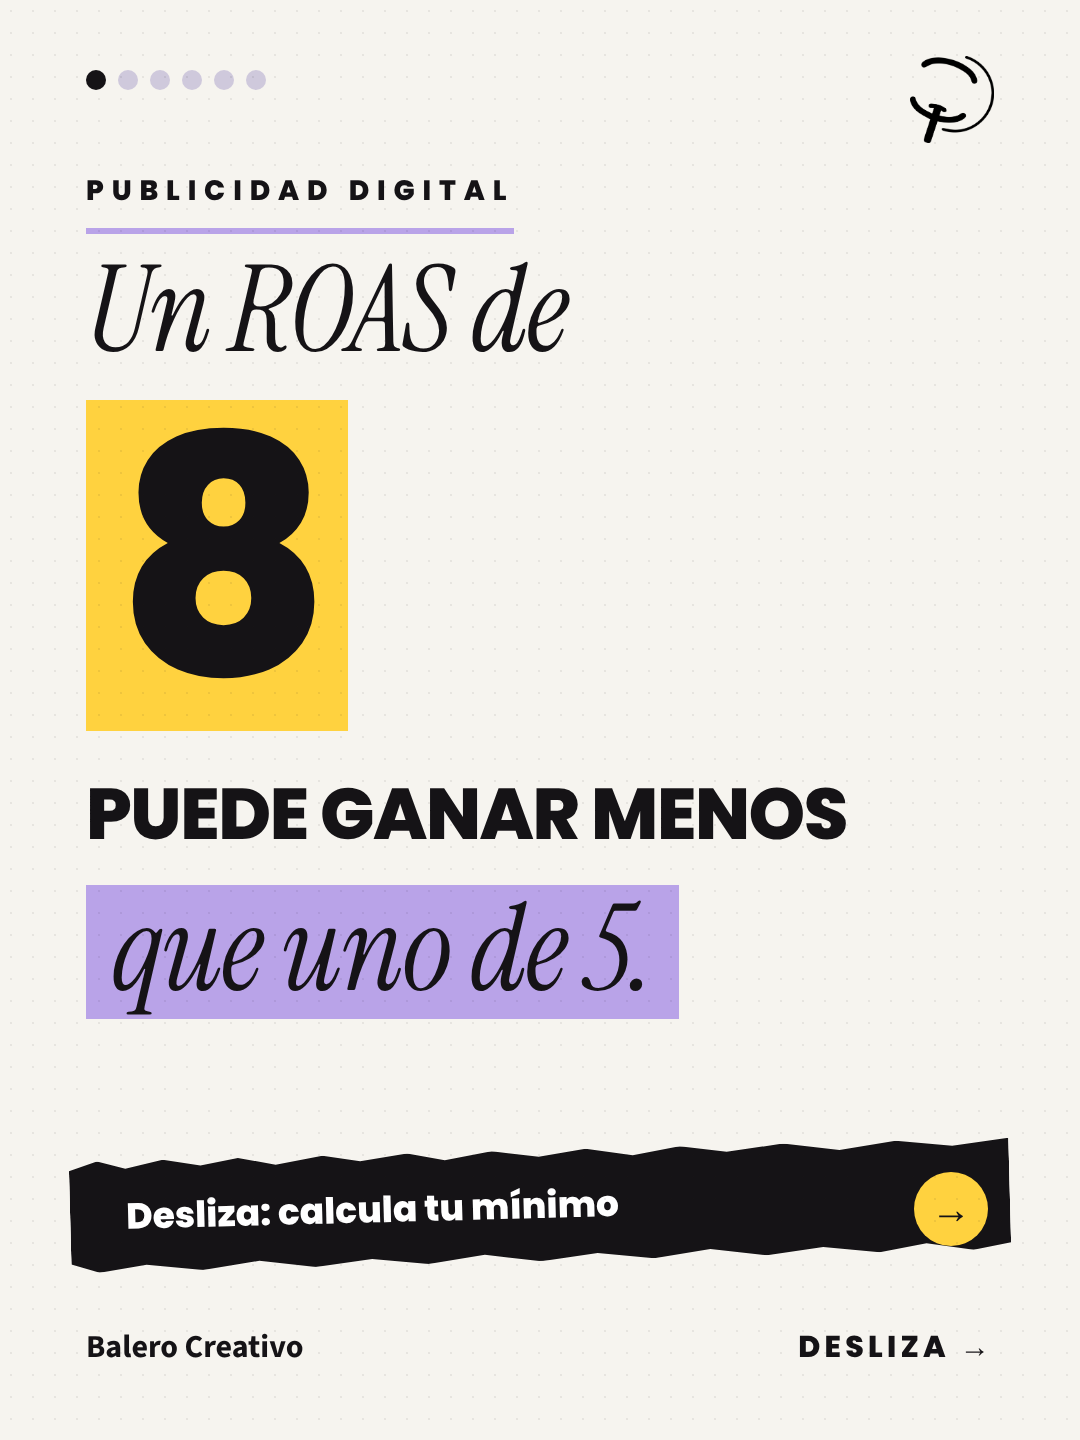
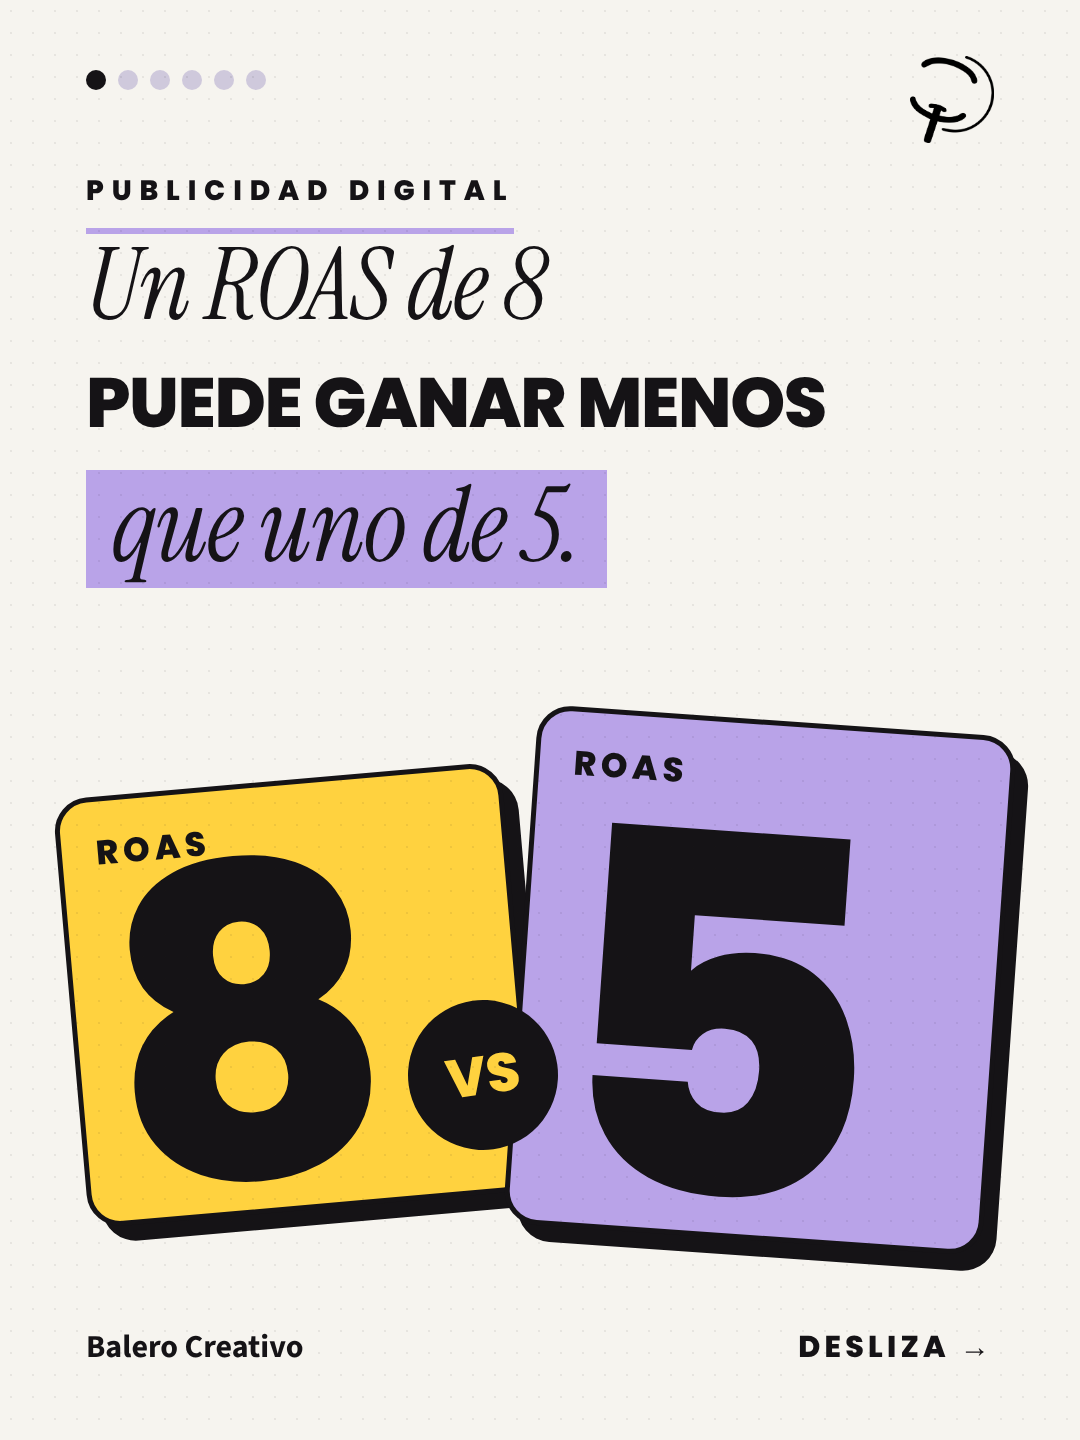
Portada ROAS: duelo visual 8 vs 5
Claude-Session: https://claude.ai/code/session_01Bq7ZC7FDz5LcdZBgNXTuBm

diff --git a/clientes/balero/diseno/2026-11/estilo-editorial/semana/roas.html b/clientes/balero/diseno/2026-11/estilo-editorial/semana/roas.html
@@ -60,4 +60,4 @@ body{background:#888}
 .meter{position:absolute;left:86px;right:86px;background:#fff;border:4px solid #151316;border-radius:26px;box-shadow:10px 12px 0 #151316;overflow:hidden}
 
 .bigy{position:absolute;left:86px;font:800 330px/.9 Poppins;background:#FFD23F;padding:10px 30px 24px;letter-spacing:-.04em}
-</style></head><body><div class="s" id="s1"><div class="dots"><i style="background:#151316"></i><i style="background:#cfc9dc"></i><i style="background:#cfc9dc"></i><i style="background:#cfc9dc"></i><i style="background:#cfc9dc"></i><i style="background:#cfc9dc"></i></div><img class="logo" src="/home/user/balero/.claude/skills/balero-imagenes/assets/logo-balero.png"><div class="kick" style="top:170px">Publicidad digital</div><div class="serif" style="position:absolute;left:86px;top:250px;font-size:120px;line-height:1">Un ROAS de</div><div class="bigy" style="top:400px">8</div><div class="big" style="top:775px;font-size:72px;line-height:1.08">PUEDE GANAR MENOS</div><div class="serif" style="position:absolute;left:86px;top:885px;font-size:120px;line-height:1"><span class="hl">que uno de 5.</span></div><div class="tape" style="top:1150px;font-family:Poppins;font-weight:800;font-size:36px">Desliza: calcula tu mínimo</div><div class="arrow" style="top:1150px;transform:translateY(22px)">→</div><div class="foot"><span>Balero Creativo</span></div><div style="position:absolute;right:86px;bottom:70px;font:800 30px Poppins;letter-spacing:.14em">DESLIZA →</div></div><div class="s" id="s2"><div class="dots"><i style="background:#cfc9dc"></i><i style="background:#151316"></i><i style="background:#cfc9dc"></i><i style="background:#cfc9dc"></i><i style="background:#cfc9dc"></i><i style="background:#cfc9dc"></i></div><img class="logo" src="/home/user/balero/.claude/skills/balero-imagenes/assets/logo-balero.png"><div class="chip">LA FÓRMULA</div><div class="t" style="top:290px;font-size:100px">Ventas entre<br><span class="serif" style="font-size:1.25em;text-transform:none;font-weight:400;background:#FFD23F;padding:0 18px">inversión.</span></div><div class="body" style="top:610px;width:880px">Eso es el ROAS: lo que vendes dividido entre lo que inviertes en anuncios.</div><div class="stat" style="left:86px;top:780px;width:250px;height:280px;background:#fff"><b style="font-size:58px">$2,000</b><span>ventas</span></div><div class="sc" style="left:350px;top:890px">÷</div><div class="stat" style="left:420px;top:780px;width:250px;height:280px;background:#fff"><b style="font-size:58px">$400</b><span>inversión</span></div><div class="sc" style="left:684px;top:890px">=</div><div class="stat" style="left:748px;top:780px;width:246px;height:280px;background:#B9A3E8"><b style="font-size:96px">5</b><span>ROAS</span></div><div class="serif" style="position:absolute;left:86px;top:1130px;font-size:62px;line-height:1">Por cada <span class="hl">$1</span> invertido,</div><div class="serif" style="position:absolute;left:86px;top:1205px;font-size:62px;line-height:1">$5 en ventas.</div><div class="foot"><span>Balero Creativo</span></div><div style="position:absolute;right:86px;bottom:70px;font:700 30px 'Source Sans Pro';color:#3d3a42;text-align:right;max-width:640px">Ejemplo ilustrativo</div></div><div class="s" id="s3"><div class="dots"><i style="background:#cfc9dc"></i><i style="background:#cfc9dc"></i><i style="background:#151316"></i><i style="background:#cfc9dc"></i><i style="background:#cfc9dc"></i><i style="background:#cfc9dc"></i></div><img class="logo" src="/home/user/balero/.claude/skills/balero-imagenes/assets/logo-balero.png"><div class="chip">EL PUNTO CIEGO</div><div class="t" style="top:290px;font-size:100px">El panel no ve<br>tus <span class="serif" style="font-size:1.25em;text-transform:none;font-weight:400;background:#FFD23F;padding:0 18px">costos.</span></div><div class="body" style="top:610px;width:880px">No sabe cuánto te cuesta vender ni tus gastos fijos. Un ROAS de 3 puede ser bueno para uno y pérdida para otro.</div><div class="cmp good" style="top:815px;height:190px"><div class="m">✓</div><div><small>NEGOCIO A · ROAS 3</small>Le deja ganancia</div></div><div class="cmp bad" style="top:1025px;height:190px"><div class="m">✗</div><div><small>NEGOCIO B · ROAS 3</small>Pierde dinero</div></div><div class="serif" style="position:absolute;left:86px;top:1240px;font-size:50px;line-height:1">El mismo número, dos resultados.</div><div class="foot"><span>Balero Creativo</span></div></div><div class="s" id="s4"><div class="dots"><i style="background:#cfc9dc"></i><i style="background:#cfc9dc"></i><i style="background:#cfc9dc"></i><i style="background:#151316"></i><i style="background:#cfc9dc"></i><i style="background:#cfc9dc"></i></div><img class="logo" src="/home/user/balero/.claude/skills/balero-imagenes/assets/logo-balero.png"><div class="chip">TU NÚMERO</div><div class="t" style="top:290px;font-size:100px">Tu ROAS mínimo:<br>dejar de <span class="serif" style="font-size:1.25em;text-transform:none;font-weight:400;background:#FFD23F;padding:0 18px">perder.</span></div><div class="body" style="top:610px;width:880px">Es el ROAS donde dejas de perder. Por encima ganas, por debajo pierdes, aunque el panel se vea bien.</div><div style="position:absolute;left:86px;top:830px;width:908px;height:200px;border:4px solid #151316;border-radius:26px;box-shadow:10px 12px 0 #151316;overflow:hidden;background:#fff;display:flex"><div style="width:50%;background:#e6e1ef;font:800 40px/200px Poppins;text-align:center;letter-spacing:.1em">PIERDES</div><div style="width:50%;background:#B9A3E8;font:800 40px/200px Poppins;text-align:center;letter-spacing:.1em">GANAS</div></div><div style="position:absolute;left:515px;top:790px;width:50px;height:280px;background:#151316;border-radius:25px"></div><div class="sticker" style="left:356px;top:1110px;transform:rotate(-3deg)">Tu ROAS mínimo</div><div class="serif" style="position:absolute;left:86px;top:1240px;font-size:50px;line-height:1">Sale de tus costos, no del panel.</div><div class="foot"><span>Balero Creativo</span></div></div><div class="s" id="s5"><div class="dots"><i style="background:#cfc9dc"></i><i style="background:#cfc9dc"></i><i style="background:#cfc9dc"></i><i style="background:#cfc9dc"></i><i style="background:#151316"></i><i style="background:#cfc9dc"></i></div><img class="logo" src="/home/user/balero/.claude/skills/balero-imagenes/assets/logo-balero.png"><div class="chip">ESCALA</div><div class="t" style="top:290px;font-size:100px">¿Más ROAS =<br>más <span class="serif" style="font-size:1.25em;text-transform:none;font-weight:400;background:#FFD23F;padding:0 18px">ganancia?</span></div><div class="body" style="top:610px;width:880px">No siempre: un ROAS de 8 con $500 puede dejar menos que uno de 5 con $10,000.</div><div class="stat" style="left:86px;top:900px;width:420px;height:380px;background:#fff"><b style="font-size:70px">ROAS 8</b><span>inviertes $500<br>ventas $4,000</span></div><div class="stat" style="left:574px;top:760px;width:420px;height:520px;background:#B9A3E8"><b style="font-size:70px">ROAS 5</b><span>inviertes $10,000<br>ventas $50,000</span></div><div class="foot"><span>Balero Creativo</span></div><div style="position:absolute;right:86px;bottom:70px;font:700 30px 'Source Sans Pro';color:#3d3a42;text-align:right;max-width:640px">Ejemplo ilustrativo</div></div><div class="s" id="s6"><div class="dots"><i style="background:#cfc9dc"></i><i style="background:#cfc9dc"></i><i style="background:#cfc9dc"></i><i style="background:#cfc9dc"></i><i style="background:#cfc9dc"></i><i style="background:#151316"></i></div><img class="logo" src="/home/user/balero/.claude/skills/balero-imagenes/assets/logo-balero.png"><div class="kick" style="top:170px">Antes de invertir más</div><div class="serif" style="position:absolute;left:86px;top:270px;font-size:104px;line-height:1">¿Sabes cuál es tu</div><div class="t" style="top:420px;font-size:104px"><span class="hl">ROAS mínimo?</span></div><div class="body" style="top:620px;width:880px">Calcúlalo antes de subir tu presupuesto.</div><div class="row2" style="top:800px;"><i>1</i>Suma lo que te cuesta vender</div><div class="row2" style="top:970px;"><i>2</i>Busca el ROAS donde dejas de perder</div><div class="tape" style="top:1150px;font-family:Poppins;font-weight:800;font-size:36px">Diagnóstico gratis de 15 minutos</div><div class="arrow" style="top:1150px;transform:translateY(22px)">→</div><div class="foot"><span>Balero Creativo</span></div><div style="position:absolute;right:86px;bottom:70px;font:700 30px 'Source Sans Pro';color:#3d3a42;text-align:right;max-width:640px">Los números son ejemplos ilustrativos</div></div></body></html>
+</style></head><body><div class="s" id="s1"><div class="dots"><i style="background:#151316"></i><i style="background:#cfc9dc"></i><i style="background:#cfc9dc"></i><i style="background:#cfc9dc"></i><i style="background:#cfc9dc"></i><i style="background:#cfc9dc"></i></div><img class="logo" src="/home/user/balero/.claude/skills/balero-imagenes/assets/logo-balero.png"><div class="kick" style="top:170px">Publicidad digital</div><div class="serif" style="position:absolute;left:86px;top:235px;font-size:100px;line-height:1">Un ROAS de 8</div><div class="big" style="top:365px;font-size:70px;line-height:1.08">PUEDE GANAR MENOS</div><div class="serif" style="position:absolute;left:86px;top:470px;font-size:104px;line-height:1"><span class="hl">que uno de 5.</span></div><div style="position:absolute;left:70px;top:780px;width:450px;height:430px;background:#FFD23F;border:5px solid #151316;border-radius:34px;box-shadow:14px 16px 0 #151316;transform:rotate(-5deg);overflow:hidden"><div style="font:800 34px Poppins;letter-spacing:.14em;padding:26px 0 0 34px">ROAS</div><div style="font:800 430px/0.82 Poppins;position:absolute;left:30px;bottom:6px">8</div></div><div style="position:absolute;left:520px;top:720px;width:480px;height:520px;background:#B9A3E8;border:5px solid #151316;border-radius:34px;box-shadow:14px 16px 0 #151316;transform:rotate(4deg);overflow:hidden"><div style="font:800 34px Poppins;letter-spacing:.14em;padding:26px 0 0 34px">ROAS</div><div style="font:800 500px/0.82 Poppins;position:absolute;left:30px;bottom:6px">5</div></div><div style="position:absolute;left:408px;top:1000px;width:150px;height:150px;border-radius:50%;background:#151316;color:#FFD23F;font:800 54px/150px Poppins;text-align:center;transform:rotate(-8deg)">VS</div><div class="foot"><span>Balero Creativo</span></div><div style="position:absolute;right:86px;bottom:70px;font:800 30px Poppins;letter-spacing:.14em">DESLIZA →</div></div><div class="s" id="s2"><div class="dots"><i style="background:#cfc9dc"></i><i style="background:#151316"></i><i style="background:#cfc9dc"></i><i style="background:#cfc9dc"></i><i style="background:#cfc9dc"></i><i style="background:#cfc9dc"></i></div><img class="logo" src="/home/user/balero/.claude/skills/balero-imagenes/assets/logo-balero.png"><div class="chip">LA FÓRMULA</div><div class="t" style="top:290px;font-size:100px">Ventas entre<br><span class="serif" style="font-size:1.25em;text-transform:none;font-weight:400;background:#FFD23F;padding:0 18px">inversión.</span></div><div class="body" style="top:610px;width:880px">Eso es el ROAS: lo que vendes dividido entre lo que inviertes en anuncios.</div><div class="stat" style="left:86px;top:780px;width:250px;height:280px;background:#fff"><b style="font-size:58px">$2,000</b><span>ventas</span></div><div class="sc" style="left:350px;top:890px">÷</div><div class="stat" style="left:420px;top:780px;width:250px;height:280px;background:#fff"><b style="font-size:58px">$400</b><span>inversión</span></div><div class="sc" style="left:684px;top:890px">=</div><div class="stat" style="left:748px;top:780px;width:246px;height:280px;background:#B9A3E8"><b style="font-size:96px">5</b><span>ROAS</span></div><div class="serif" style="position:absolute;left:86px;top:1130px;font-size:62px;line-height:1">Por cada <span class="hl">$1</span> invertido,</div><div class="serif" style="position:absolute;left:86px;top:1205px;font-size:62px;line-height:1">$5 en ventas.</div><div class="foot"><span>Balero Creativo</span></div><div style="position:absolute;right:86px;bottom:70px;font:700 30px 'Source Sans Pro';color:#3d3a42;text-align:right;max-width:640px">Ejemplo ilustrativo</div></div><div class="s" id="s3"><div class="dots"><i style="background:#cfc9dc"></i><i style="background:#cfc9dc"></i><i style="background:#151316"></i><i style="background:#cfc9dc"></i><i style="background:#cfc9dc"></i><i style="background:#cfc9dc"></i></div><img class="logo" src="/home/user/balero/.claude/skills/balero-imagenes/assets/logo-balero.png"><div class="chip">EL PUNTO CIEGO</div><div class="t" style="top:290px;font-size:100px">El panel no ve<br>tus <span class="serif" style="font-size:1.25em;text-transform:none;font-weight:400;background:#FFD23F;padding:0 18px">costos.</span></div><div class="body" style="top:610px;width:880px">No sabe cuánto te cuesta vender ni tus gastos fijos. Un ROAS de 3 puede ser bueno para uno y pérdida para otro.</div><div class="cmp good" style="top:815px;height:190px"><div class="m">✓</div><div><small>NEGOCIO A · ROAS 3</small>Le deja ganancia</div></div><div class="cmp bad" style="top:1025px;height:190px"><div class="m">✗</div><div><small>NEGOCIO B · ROAS 3</small>Pierde dinero</div></div><div class="serif" style="position:absolute;left:86px;top:1240px;font-size:50px;line-height:1">El mismo número, dos resultados.</div><div class="foot"><span>Balero Creativo</span></div></div><div class="s" id="s4"><div class="dots"><i style="background:#cfc9dc"></i><i style="background:#cfc9dc"></i><i style="background:#cfc9dc"></i><i style="background:#151316"></i><i style="background:#cfc9dc"></i><i style="background:#cfc9dc"></i></div><img class="logo" src="/home/user/balero/.claude/skills/balero-imagenes/assets/logo-balero.png"><div class="chip">TU NÚMERO</div><div class="t" style="top:290px;font-size:100px">Tu ROAS mínimo:<br>dejar de <span class="serif" style="font-size:1.25em;text-transform:none;font-weight:400;background:#FFD23F;padding:0 18px">perder.</span></div><div class="body" style="top:610px;width:880px">Es el ROAS donde dejas de perder. Por encima ganas, por debajo pierdes, aunque el panel se vea bien.</div><div style="position:absolute;left:86px;top:830px;width:908px;height:200px;border:4px solid #151316;border-radius:26px;box-shadow:10px 12px 0 #151316;overflow:hidden;background:#fff;display:flex"><div style="width:50%;background:#e6e1ef;font:800 40px/200px Poppins;text-align:center;letter-spacing:.1em">PIERDES</div><div style="width:50%;background:#B9A3E8;font:800 40px/200px Poppins;text-align:center;letter-spacing:.1em">GANAS</div></div><div style="position:absolute;left:515px;top:790px;width:50px;height:280px;background:#151316;border-radius:25px"></div><div class="sticker" style="left:356px;top:1110px;transform:rotate(-3deg)">Tu ROAS mínimo</div><div class="serif" style="position:absolute;left:86px;top:1240px;font-size:50px;line-height:1">Sale de tus costos, no del panel.</div><div class="foot"><span>Balero Creativo</span></div></div><div class="s" id="s5"><div class="dots"><i style="background:#cfc9dc"></i><i style="background:#cfc9dc"></i><i style="background:#cfc9dc"></i><i style="background:#cfc9dc"></i><i style="background:#151316"></i><i style="background:#cfc9dc"></i></div><img class="logo" src="/home/user/balero/.claude/skills/balero-imagenes/assets/logo-balero.png"><div class="chip">ESCALA</div><div class="t" style="top:290px;font-size:100px">¿Más ROAS =<br>más <span class="serif" style="font-size:1.25em;text-transform:none;font-weight:400;background:#FFD23F;padding:0 18px">ganancia?</span></div><div class="body" style="top:610px;width:880px">No siempre: un ROAS de 8 con $500 puede dejar menos que uno de 5 con $10,000.</div><div class="stat" style="left:86px;top:900px;width:420px;height:380px;background:#fff"><b style="font-size:70px">ROAS 8</b><span>inviertes $500<br>ventas $4,000</span></div><div class="stat" style="left:574px;top:760px;width:420px;height:520px;background:#B9A3E8"><b style="font-size:70px">ROAS 5</b><span>inviertes $10,000<br>ventas $50,000</span></div><div class="foot"><span>Balero Creativo</span></div><div style="position:absolute;right:86px;bottom:70px;font:700 30px 'Source Sans Pro';color:#3d3a42;text-align:right;max-width:640px">Ejemplo ilustrativo</div></div><div class="s" id="s6"><div class="dots"><i style="background:#cfc9dc"></i><i style="background:#cfc9dc"></i><i style="background:#cfc9dc"></i><i style="background:#cfc9dc"></i><i style="background:#cfc9dc"></i><i style="background:#151316"></i></div><img class="logo" src="/home/user/balero/.claude/skills/balero-imagenes/assets/logo-balero.png"><div class="kick" style="top:170px">Antes de invertir más</div><div class="serif" style="position:absolute;left:86px;top:270px;font-size:104px;line-height:1">¿Sabes cuál es tu</div><div class="t" style="top:420px;font-size:104px"><span class="hl">ROAS mínimo?</span></div><div class="body" style="top:620px;width:880px">Calcúlalo antes de subir tu presupuesto.</div><div class="row2" style="top:800px;"><i>1</i>Suma lo que te cuesta vender</div><div class="row2" style="top:970px;"><i>2</i>Busca el ROAS donde dejas de perder</div><div class="tape" style="top:1150px;font-family:Poppins;font-weight:800;font-size:36px">Diagnóstico gratis de 15 minutos</div><div class="arrow" style="top:1150px;transform:translateY(22px)">→</div><div class="foot"><span>Balero Creativo</span></div><div style="position:absolute;right:86px;bottom:70px;font:700 30px 'Source Sans Pro';color:#3d3a42;text-align:right;max-width:640px">Los números son ejemplos ilustrativos</div></div></body></html>

diff --git a/clientes/balero/diseno/2026-11/estilo-editorial/semana/defs.py b/clientes/balero/diseno/2026-11/estilo-editorial/semana/defs.py
@@ -9,7 +9,7 @@ def mcards(items,top,h=300):
     pass
 # ---------- ROAS ----------
 roas=[
- (kick('Publicidad digital')+serif('Un ROAS de',250,120)+'<div class="bigy" style="top:400px">8</div>'+big('PUEDE GANAR MENOS',775,72)+serif('<span class="hl">que uno de 5.</span>',885,120)+tape('Desliza: calcula tu mínimo',1150), FD),
+ (kick('Publicidad digital')+serif('Un ROAS de 8',235,100)+big('PUEDE GANAR MENOS',365,70)+serif('<span class="hl">que uno de 5.</span>',470,104)+'<div style="position:absolute;left:70px;top:780px;width:450px;height:430px;background:#FFD23F;border:5px solid #151316;border-radius:34px;box-shadow:14px 16px 0 #151316;transform:rotate(-5deg);overflow:hidden"><div style="font:800 34px Poppins;letter-spacing:.14em;padding:26px 0 0 34px">ROAS</div><div style="font:800 430px/0.82 Poppins;position:absolute;left:30px;bottom:6px">8</div></div>'+'<div style="position:absolute;left:520px;top:720px;width:480px;height:520px;background:#B9A3E8;border:5px solid #151316;border-radius:34px;box-shadow:14px 16px 0 #151316;transform:rotate(4deg);overflow:hidden"><div style="font:800 34px Poppins;letter-spacing:.14em;padding:26px 0 0 34px">ROAS</div><div style="font:800 500px/0.82 Poppins;position:absolute;left:30px;bottom:6px">5</div></div>'+'<div style="position:absolute;left:408px;top:1000px;width:150px;height:150px;border-radius:50%;background:#151316;color:#FFD23F;font:800 54px/150px Poppins;text-align:center;transform:rotate(-8deg)">VS</div>', FD),
  (chip('LA FÓRMULA')+title('Ventas entre',hl('inversión.'),100)+body('Eso es el ROAS: lo que vendes dividido entre lo que inviertes en anuncios.')+
    stat(86,780,250,280,'$2,000','ventas',fs=58)+'<div class="sc" style="left:350px;top:890px">÷</div>'+stat(420,780,250,280,'$400','inversión',fs=58)+'<div class="sc" style="left:684px;top:890px">=</div>'+stat(748,780,246,280,'5','ROAS','#B9A3E8',fs=96)+
    serif('Por cada <span class="hl">$1</span> invertido,',1130,62)+serif('$5 en ventas.',1205,62), foot('Ejemplo ilustrativo')),
